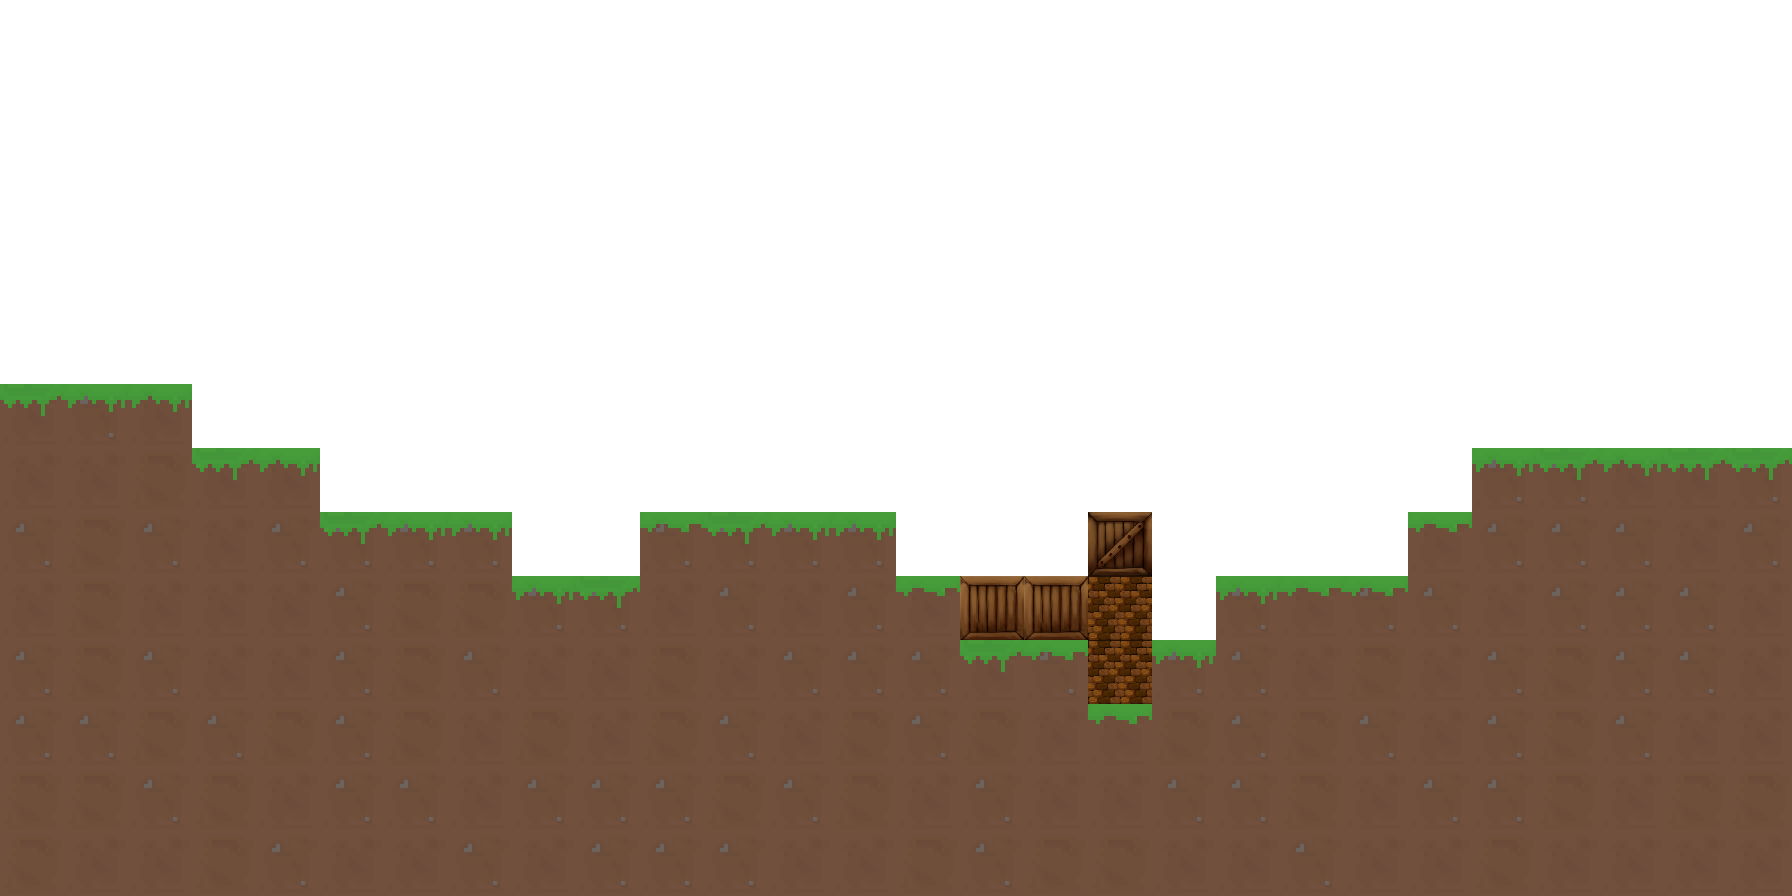
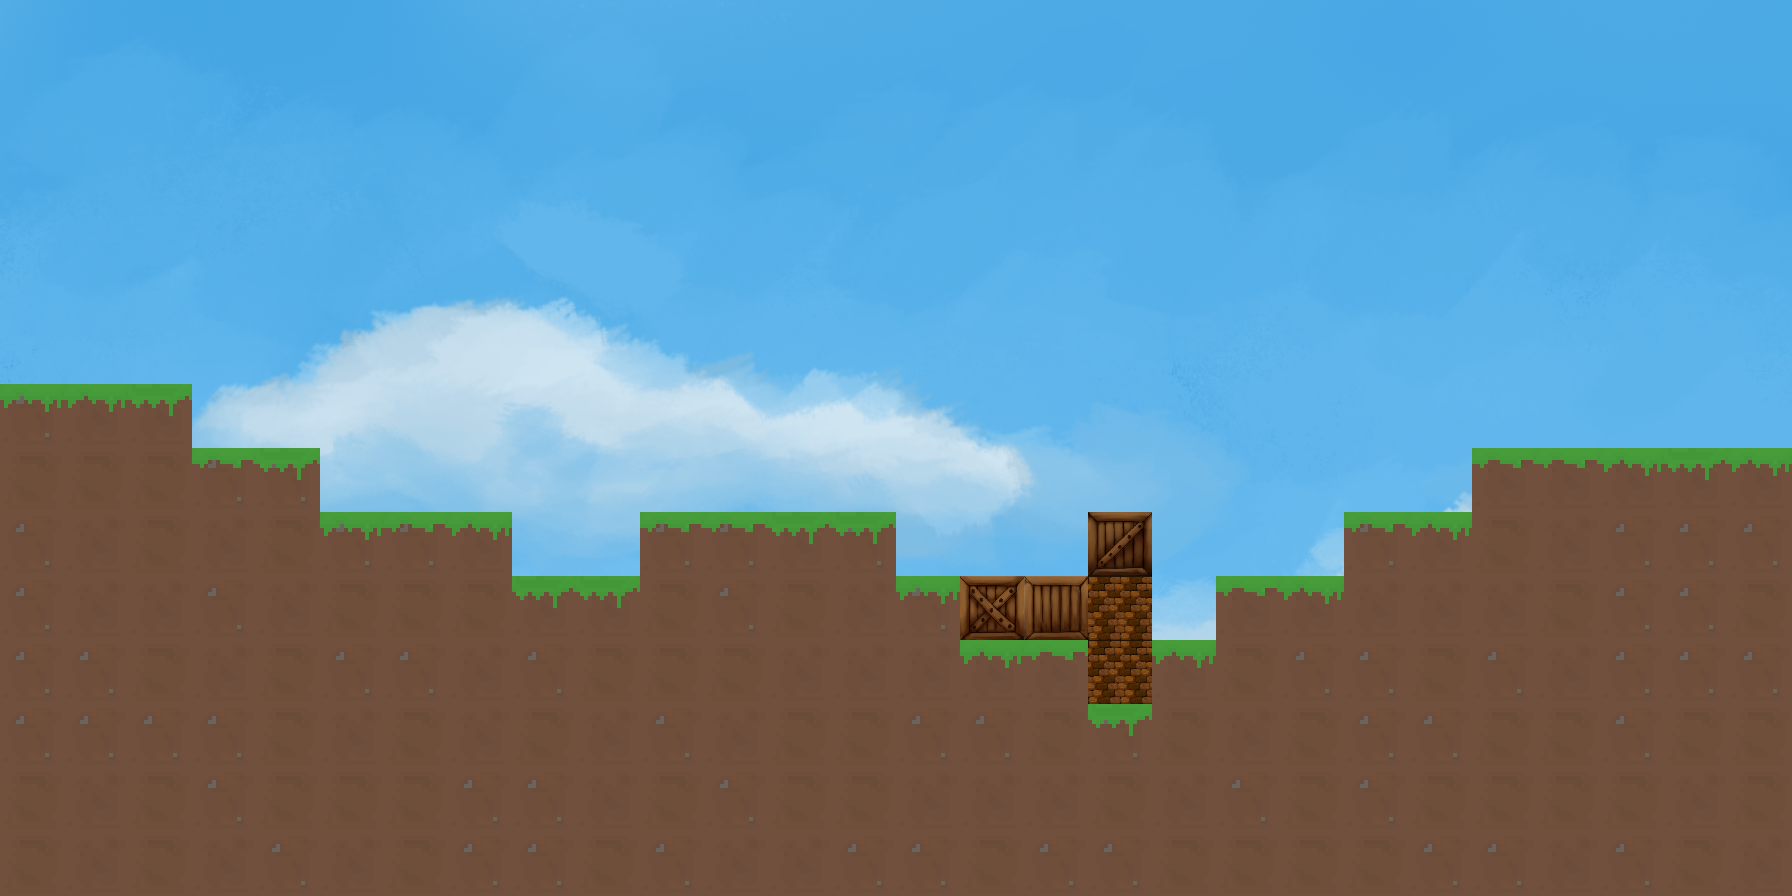
feat(render): add dynamic loading map

diff --git a/objects/world.py b/objects/world.py
@@ -1,0 +1,56 @@
+import importlib
+import pygame as pg
+
+from .elements import *
+
+
+class World:
+    level_id: int
+
+    def __init__(self):
+        self.tile_width = 64
+        self.tile_height = 64
+
+        self.size_tiles_x_world = 28
+        self.size_tiles_y_world = 14
+
+        self.screen_width = self.tile_width * self.size_tiles_x_world
+        self.screen_height = self.tile_height * self.size_tiles_y_world
+
+        self.level = []
+
+        self.tiles = {
+            0: Empty(self.tile_height, self.tile_width),
+            1: Dirt(self.tile_height, self.tile_width),
+            2: Grass(self.tile_height, self.tile_width),
+            3: Wall(self.tile_height, self.tile_width),
+            4: Box(self.tile_height, self.tile_width),
+        }
+
+    def load_map(self, level_id):
+        self.level_id = level_id
+        self.level = importlib.import_module(f"resources.levels.{self.level_id}")
+
+    def save_map(self):
+        background = pg.Surface(self.screen_size())
+        background.blit(pg.image.load(f"resources/sprites/sky.png").convert_alpha(), (0, 0))
+
+        x_max = int(self.screen_width / self.tile_width)
+        y_max = int(self.screen_height / self.tile_height)
+
+        for i in range(0, y_max):
+            for j in range(0, x_max):
+                x = j * self.tile_width
+                y = i * self.tile_height
+                item = self.level.layouts[i][j]
+
+                background.blit(
+                    self.tiles[item].render((x, y)),
+                    (x, y)
+                )
+
+        pg.image.save(background, f"resources/levels/{self.level_id}.png")
+
+    def screen_size(self):
+        size = (self.tile_width * self.size_tiles_x_world, self.tile_height * self.size_tiles_y_world)
+        return size

diff --git a/objects/elements/box.py b/objects/elements/box.py
@@ -1,0 +1,42 @@
+import pygame as pg
+import random
+
+
+class Wall(pg.sprite.Sprite):
+    def __init__(self, tile_height, tile_width):
+        super().__init__()
+        self.pos = (0, 0)
+
+        self.tile_height = tile_height
+        self.tile_width = tile_width
+
+        self.tile = pg.transform.scale(
+            pg.image.load(f"resources/sprites/wall.jpg"),
+            (self.tile_width, self.tile_height)
+        )
+
+    def render(self, pos):
+        self.pos = pos
+        return self.tile
+
+
+class Box(pg.sprite.Sprite):
+    def __init__(self, tile_height, tile_width):
+        super().__init__()
+        self.pos = (0, 0)
+
+        self.tile_height = tile_height
+        self.tile_width = tile_width
+
+        self.tiles = []
+        for i in range(1, 4):
+            self.tiles.append(
+                pg.transform.scale(
+                    pg.image.load(f"resources/sprites/box{i}.png"),
+                    (self.tile_width, self.tile_height)
+                )
+            )
+
+    def render(self, pos):
+        self.pos = pos
+        return self.tiles[random.randint(0, len(self.tiles) - 1)]

diff --git a/resources/levels/1.py b/resources/levels/1.py
@@ -11,8 +11,8 @@ layouts = [[0, 0, 0, 0, 0, 0, 0, 0, 0, 0, 0, 0, 0, 0, 0, 0, 0, 0, 0, 0, 0, 0, 0,
            [0, 0, 0, 0, 0, 0, 0, 0, 0, 0, 0, 0, 0, 0, 0, 0, 0, 0, 0, 0, 0, 0, 0, 0, 0, 0, 0, 0],
            [2, 2, 2, 0, 0, 0, 0, 0, 0, 0, 0, 0, 0, 0, 0, 0, 0, 0, 0, 0, 0, 0, 0, 0, 0, 0, 0, 0],
            [1, 1, 1, 2, 2, 0, 0, 0, 0, 0, 0, 0, 0, 0, 0, 0, 0, 0, 0, 0, 0, 0, 0, 2, 2, 2, 2, 2],
-           [1, 1, 1, 1, 1, 2, 2, 2, 0, 0, 2, 2, 2, 2, 0, 0, 0, 4, 0, 0, 0, 0, 2, 1, 1, 1, 1, 1],
-           [1, 1, 1, 1, 1, 1, 1, 1, 2, 2, 1, 1, 1, 1, 2, 4, 4, 3, 0, 2, 2, 2, 1, 1, 1, 1, 1, 1],
+           [1, 1, 1, 1, 1, 2, 2, 2, 0, 0, 2, 2, 2, 2, 0, 0, 0, 4, 0, 0, 0, 2, 2, 1, 1, 1, 1, 1],
+           [1, 1, 1, 1, 1, 1, 1, 1, 2, 2, 1, 1, 1, 1, 2, 4, 4, 3, 0, 2, 2, 1, 1, 1, 1, 1, 1, 1],
            [1, 1, 1, 1, 1, 1, 1, 1, 1, 1, 1, 1, 1, 1, 1, 2, 2, 3, 2, 1, 1, 1, 1, 1, 1, 1, 1, 1],
            [1, 1, 1, 1, 1, 1, 1, 1, 1, 1, 1, 1, 1, 1, 1, 1, 1, 2, 1, 1, 1, 1, 1, 1, 1, 1, 1, 1],
            [1, 1, 1, 1, 1, 1, 1, 1, 1, 1, 1, 1, 1, 1, 1, 1, 1, 1, 1, 1, 1, 1, 1, 1, 1, 1, 1, 1],

diff --git a/objects/elements/grass.py b/objects/elements/grass.py
@@ -1,0 +1,24 @@
+import pygame as pg
+import random
+
+
+class Grass(pg.sprite.Sprite):
+    def __init__(self, tile_height, tile_width):
+        super().__init__()
+        self.pos = (0, 0)
+
+        self.tile_height = tile_height
+        self.tile_width = tile_width
+
+        self.tiles = []
+        for i in range(1, 7):
+            self.tiles.append(
+                pg.transform.scale(
+                    pg.image.load(f"resources/sprites/grass{i}.png"),
+                    (self.tile_width, self.tile_height)
+                )
+            )
+
+    def render(self, pos):
+        self.pos = pos
+        return self.tiles[random.randint(0, len(self.tiles) - 1)]

diff --git a/objects/elements/dirt.py b/objects/elements/dirt.py
@@ -1,0 +1,24 @@
+import pygame as pg
+import random
+
+
+class Dirt(pg.sprite.Sprite):
+    def __init__(self, tile_height, tile_width):
+        super().__init__()
+        self.pos = (0, 0)
+
+        self.tile_height = tile_height
+        self.tile_width = tile_width
+
+        self.tiles = []
+        for i in range(1, 4):
+            self.tiles.append(
+                pg.transform.scale(
+                    pg.image.load(f"resources/sprites/dirt{i}.png"),
+                    (self.tile_width, self.tile_height)
+                )
+            )
+
+    def render(self, pos):
+        self.pos = pos
+        return self.tiles[random.randint(0, len(self.tiles) - 1)]

diff --git a/main.py b/main.py
@@ -1,5 +1,6 @@
 from objects.constants import *
 from objects.player import Player, Cannon, Fuel
+from objects.world import World
 
 
 def main():
@@ -41,8 +42,11 @@ def main():
         text.render(f"Fuel: {Player.fuel}%", 0, (0, 0, 0))
     ]
 
+    background = World()
+    background.load_map(1)
+    background.save_map()
+
     background = pg.Surface(SCREENRECT.size)
-    background.blit(pg.image.load(f"resources/sprites/sky.png").convert_alpha(), (0, 0))
     background.blit(pg.image.load(f"resources/levels/1.png").convert_alpha(), (0, 0))
     screen.blit(background, (0, 0))
     pg.display.flip()

diff --git a/objects/elements/empty.py b/objects/elements/empty.py
@@ -1,0 +1,19 @@
+import pygame as pg
+
+
+class Empty(pg.sprite.Sprite):
+    def __init__(self, tile_height, tile_width):
+        super().__init__()
+        self.pos = (0, 0)
+
+        self.tile_height = tile_height
+        self.tile_width = tile_width
+
+        self.tile = pg.transform.scale(
+            pg.image.load(f"resources/sprites/empty.png"),
+            (self.tile_width, self.tile_height)
+        )
+
+    def render(self, pos):
+        self.pos = pos
+        return self.tile

diff --git a/objects/elements/__init__.py b/objects/elements/__init__.py
@@ -1,0 +1,4 @@
+from .box import Wall, Box
+from .dirt import Dirt
+from .grass import Grass
+from .empty import Empty
